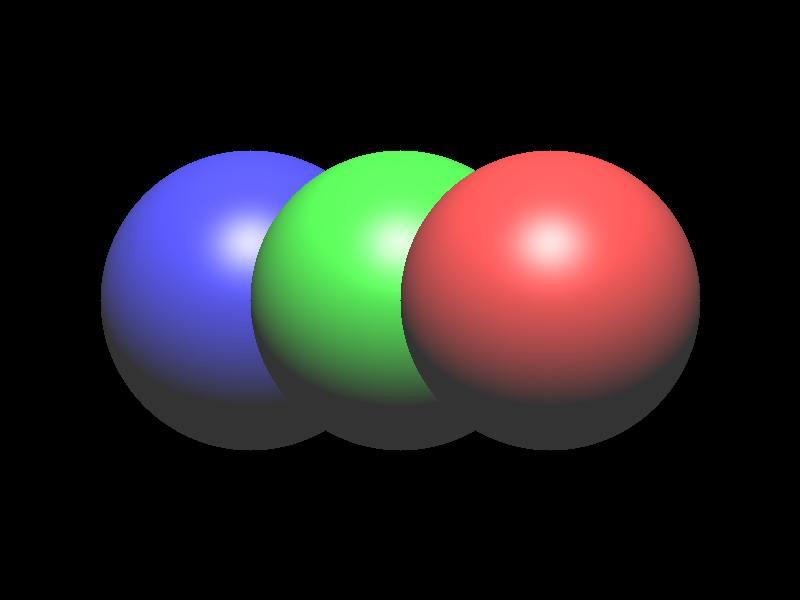
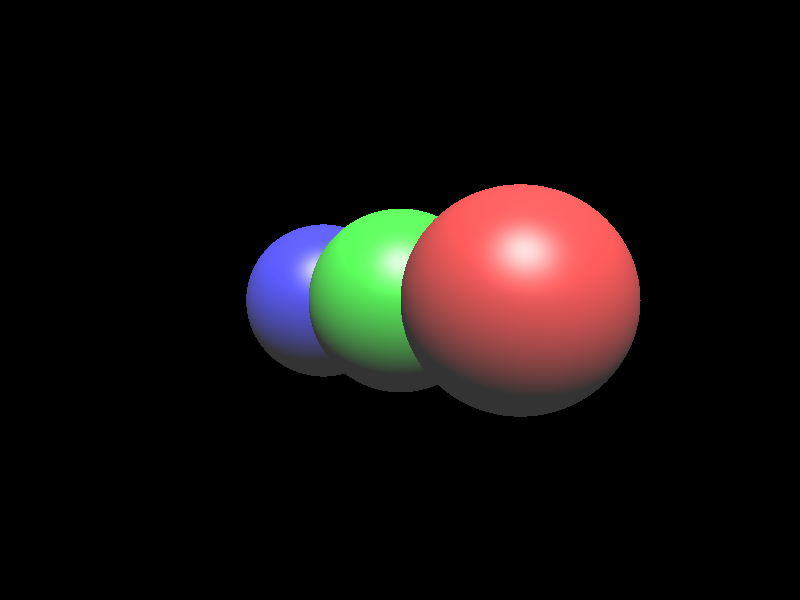
perspective view

Changed region(s): [[0.125, 0.24, 0.875, 0.75]]

diff --git a/src/raytracer.rs b/src/raytracer.rs
@@ -51,9 +51,9 @@ impl Raytracer {
 
         let mut objects: Vec<Sphere> = Vec::new();
 
-        objects.push(sphere1);
-        objects.push(sphere2);
         objects.push(sphere3);
+        objects.push(sphere2);
+        objects.push(sphere1);
 
         // located back of screen
         let light = Light { pos: cgmath::Vector3::new(0.0, 1.0, -1.0) };
@@ -130,13 +130,18 @@ impl Raytracer {
 
         let start = Instant::now();
 
+        let eye_pos = cgmath::Vector3::new(0.0, 0.0, -1.5);
+
         for j in 0..self.height {
             for i in 0..self.width {
                 let pixel_pos_world = self.transform_screen_to_world(cgmath::vec2(i as f32, j as f32));
 
                 // 광선의 방향 벡터
                 // 스크린에 수직인 z 방향, 유닛벡터
-                let ray_dir = cgmath::vec3(0.0, 0.0, 1.0);
+                // let ray_dir = cgmath::vec3(0.0, 0.0, 1.0);
+                let ray_dir = (pixel_pos_world - eye_pos).normalize();
+
+                    // cgmath::vec3(0.0, 0.0, 1.0);
 
                 let pixel_ray = Ray { dir: ray_dir, start: pixel_pos_world };
                 let color = self.tracy_ray(&pixel_ray);
